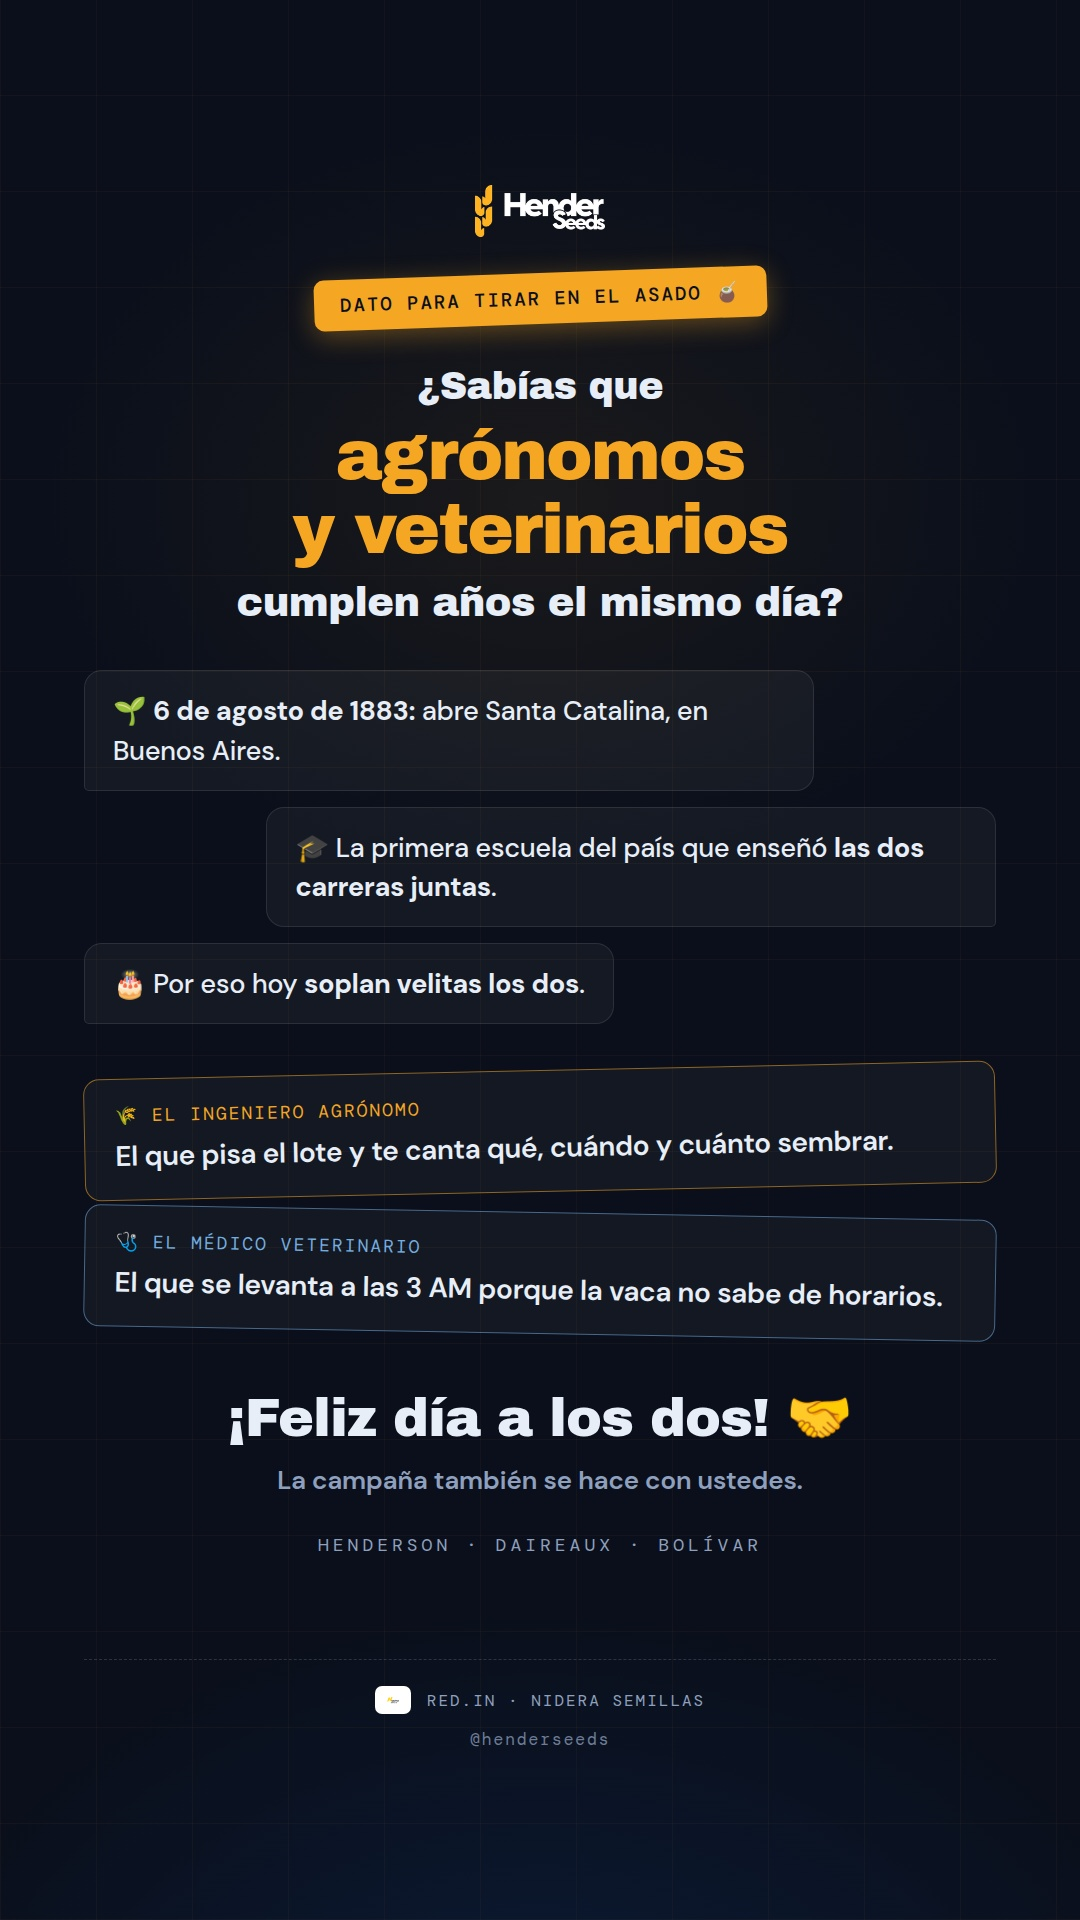
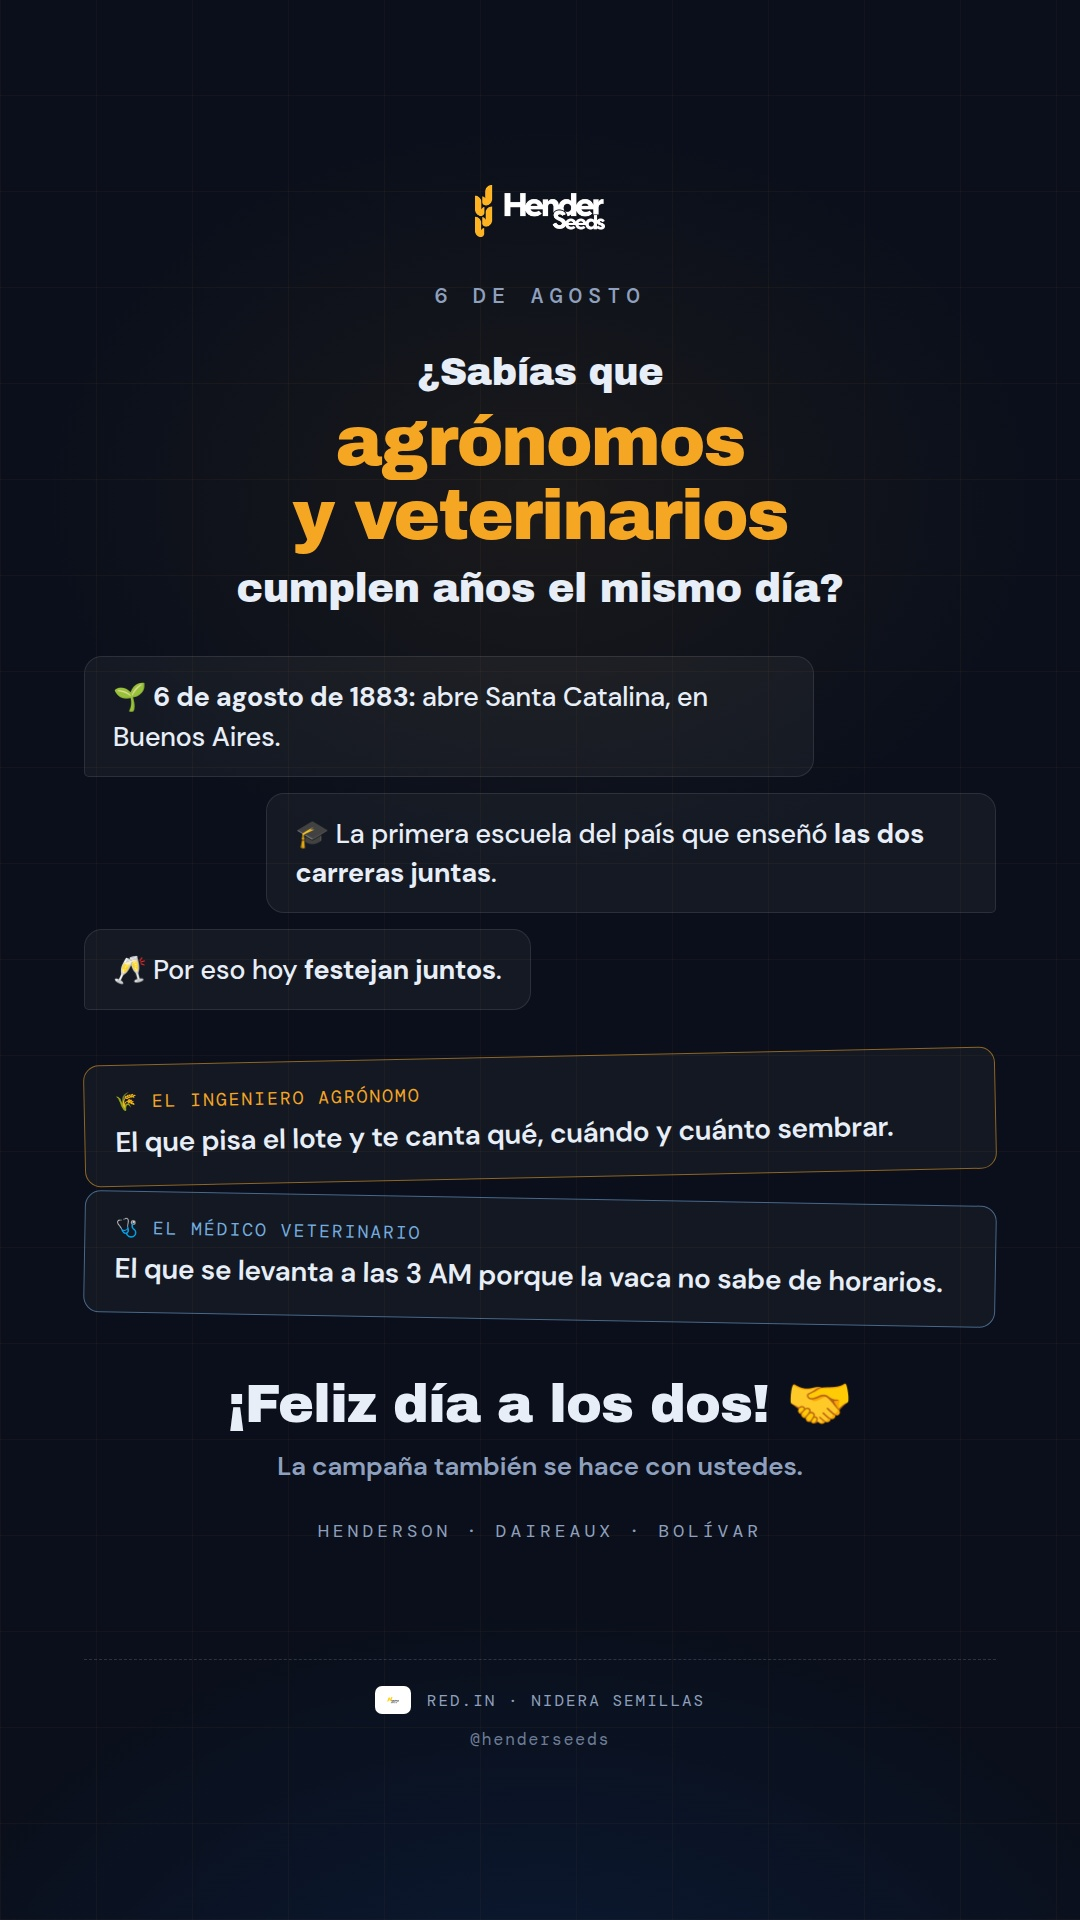
Historia 6/8 v3: ajustes de copy pedidos
- Sale el sticker "dato para tirar en el asado"; arriba queda la fecha
  "6 DE AGOSTO" en mono, simple.
- Burbuja 3: "soplan velitas los dos" -> "festejan juntos" con copas 🥂.
- JPG final regenerado; post doc y calendario alineados.

Claude-Session: https://claude.ai/code/session_01CotwvpFbobUqKaaN4F47nu

diff --git a/docs/placas/2026-08-06-dia-veterinario-agronomo.html b/docs/placas/2026-08-06-dia-veterinario-agronomo.html
@@ -41,12 +41,11 @@ body { background:#05070d; display:flex; justify-content:center; align-items:fle
 
 .spacer { flex:1; }
 
-/* sticker inclinado, estilo "edición campo" */
-.sticker {
-  margin-top:36px; transform:rotate(-2deg);
-  font-family:var(--mono); font-size:19px; font-weight:500; letter-spacing:2px; text-transform:uppercase;
-  background:var(--orange); color:#0A0F1B; padding:13px 26px; border-radius:10px;
-  box-shadow:0 6px 26px rgba(245,166,35,0.35);
+/* fecha arriba, simple */
+.kicker {
+  margin-top:44px;
+  font-family:var(--mono); font-size:22px; font-weight:500; letter-spacing:6px; text-transform:uppercase;
+  color:var(--grey);
 }
 
 /* pregunta gancho */
@@ -98,7 +97,7 @@ body { background:#05070d; display:flex; justify-content:center; align-items:fle
 
   <img class="logo-hs" src="../assets/logo-henderseeds-white.png" alt="HenderSeeds">
 
-  <div class="sticker">Dato para tirar en el asado 🧉</div>
+  <div class="kicker">6 de Agosto</div>
 
   <div class="hook">
     <div class="q1">¿Sabías que</div>
@@ -109,7 +108,7 @@ body { background:#05070d; display:flex; justify-content:center; align-items:fle
   <div class="burbujas">
     <div class="bur izq">🌱 <b>6 de agosto de 1883:</b> abre Santa Catalina, en Buenos Aires.</div>
     <div class="bur der">🎓 La primera escuela del país que enseñó <b>las dos carreras juntas</b>.</div>
-    <div class="bur izq">🎂 Por eso hoy <b>soplan velitas los dos</b>.</div>
+    <div class="bur izq">🥂 Por eso hoy <b>festejan juntos</b>.</div>
   </div>
 
   <div class="tarjetas">

diff --git a/posts/2026-W32/post-04-dia-veterinario-agronomo.md b/posts/2026-W32/post-04-dia-veterinario-agronomo.md
@@ -10,7 +10,7 @@
 - **Guía:** pestaña **Fechas** del dashboard → `docs/fechas/index.html`
 
 ## Concepto
-Formato **"dato para tirar en el asado"**: didáctico y entretenido, frases cortas.
+Formato **dato curioso**: didáctico y entretenido, frases cortas.
 El gancho es la curiosidad — agrónomos y veterinarios **cumplen años el mismo día**
 porque las dos carreras nacieron juntas en el **Instituto de Santa Catalina**
 (Llavallol, Buenos Aires, 6/8/1883), primera escuela del país en dictar ambas.
@@ -24,12 +24,12 @@ con botón de descarga historia 9:16 (1080×1920, texto en zona segura central).
 **JPG final listo para subir** →
 [`docs/placas/2026-08-06-dia-veterinario-agronomo-historia-1080x1920.jpg`](../../docs/placas/2026-08-06-dia-veterinario-agronomo-historia-1080x1920.jpg)
 
-Diseño: fondo navy agro-tech con grilla sutil. Sticker naranja inclinado
-*"dato para tirar en el asado 🧉"* → pregunta gancho en Archivo Black
+Diseño: fondo navy agro-tech con grilla sutil. Fecha "6 DE AGOSTO" en mono
+→ pregunta gancho en Archivo Black
 ("¿Sabías que **agrónomos y veterinarios** cumplen años el mismo día?") →
 3 **burbujas tipo chat** que cuentan la historia en frases cortas (🌱 1883 abre
-Santa Catalina · 🎓 primera escuela con las dos carreras · 🎂 hoy soplan velitas
-los dos) → 2 **tarjetas rotadas con humor** (🌾 agrónomo, borde naranja /
+Santa Catalina · 🎓 primera escuela con las dos carreras · 🥂 hoy festejan
+juntos) → 2 **tarjetas rotadas con humor** (🌾 agrónomo, borde naranja /
 🩺 veterinario, borde celeste) → cierre *"¡Feliz día a los dos! 🤝 La campaña
 también se hace con ustedes."* + zona + firma RED.IN Nidera + @henderseeds.
 
@@ -48,7 +48,7 @@ también se hace con ustedes."* + zona + firma RED.IN Nidera + @henderseeds.
 ## Copy opcional (solo si además va al feed / Facebook)
 > Agrónomos y veterinarios cumplen años el mismo día. 🎂
 >
-> El 6 de agosto de 1883 abría Santa Catalina, la primera escuela del país que enseñó las dos carreras juntas. Desde entonces, soplan velitas los dos.
+> El 6 de agosto de 1883 abría Santa Catalina, la primera escuela del país que enseñó las dos carreras juntas. Desde entonces, festejan juntos. 🥂
 >
 > Feliz día al que te canta qué sembrar y al que se levanta a las 3 AM por una vaca. La campaña también se hace con ustedes. 🌾🩺
 

diff --git a/calendario.md b/calendario.md
@@ -50,8 +50,8 @@ Los hitos de `contexto/calendario-comercial.md` pisan la rotación cuando aparez
 | 2026-W36 | 31/08 | 💡 Cuenta regresiva (si hay fecha de cierre) | 💡 Herramientas | 💡 Técnico |
 
 > 🌾🩺 **Extra W32 — Día del Ingeniero Agrónomo y del Médico Veterinario (jue 06/08):**
-> historia 9:16 didáctica y entretenida ("dato para tirar en el asado": las dos carreras
-> nacieron en Santa Catalina, 1883 → burbujas chat + tarjetas con humor de campo).
+> historia 9:16 didáctica y entretenida (dato curioso: las dos carreras nacieron
+> en Santa Catalina, 1883 → burbujas chat + tarjetas con humor de campo).
 > ✍ Copy + placa listos → [post-04](posts/2026-W32/post-04-dia-veterinario-agronomo.md) ·
 > [placa descargable](docs/placas/2026-08-06-dia-veterinario-agronomo.html).
 > Publicar **jue 06/08 en el día**, historia (feed opcional), sin pauta, sin CTA comercial;
